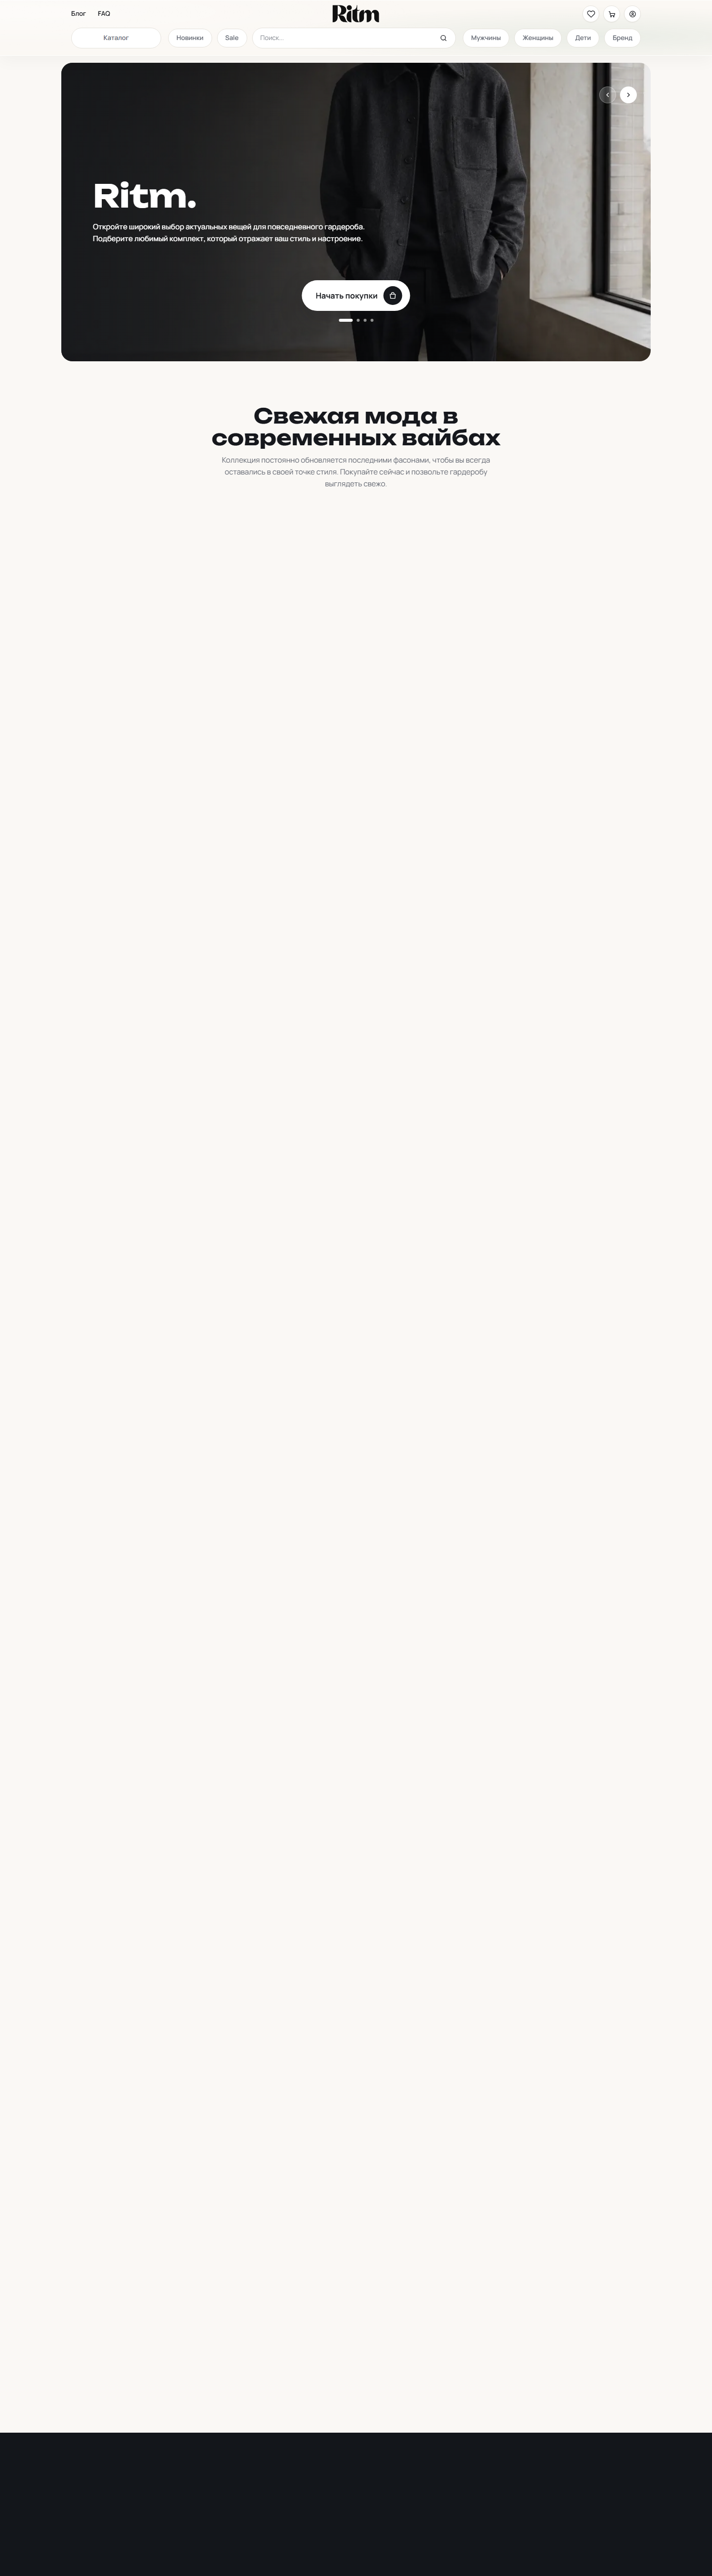
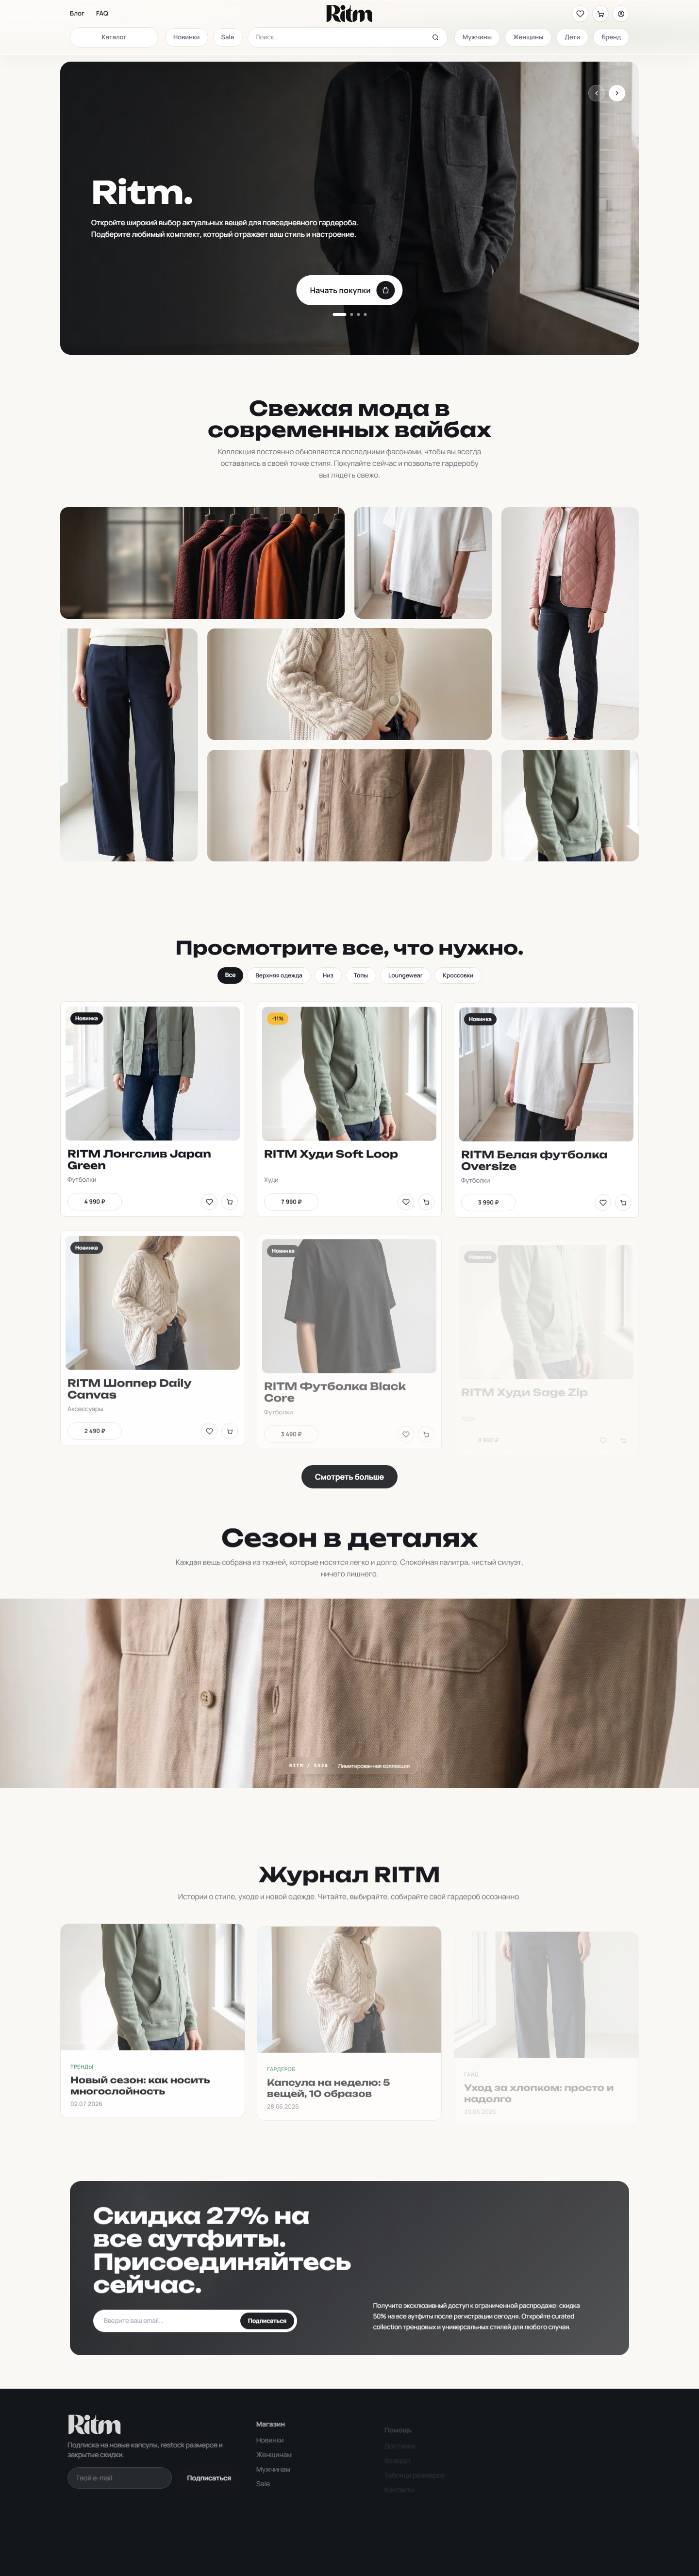
docs(portfolio): publish project case

diff --git a/tests/readme-contract.test.ts b/tests/readme-contract.test.ts
@@ -1,0 +1,29 @@
+import { readFileSync } from 'node:fs';
+import { expect, it } from 'vitest';
+
+it('documents the live case, stack, proof, and limitations', () => {
+  const readme = readFileSync('README.md', 'utf8');
+
+  for (const value of [
+    'https://ritm-app-eight.vercel.app',
+    '/demo-admin',
+    'Next.js 15',
+    'Prisma',
+    'Neon',
+    'YooKassa sandbox',
+    'Sentry',
+    'GitHub Actions',
+    'Portfolio limitations',
+  ]) {
+    expect(readme).toContain(value);
+  }
+
+  for (const image of [
+    'storefront-desktop.png',
+    'catalog-mobile.png',
+    'demo-admin-desktop.png',
+    'demo-admin-mobile.png',
+  ]) {
+    expect(readme).toContain(image);
+  }
+});

diff --git a/tests/portfolio-capture.test.ts b/tests/portfolio-capture.test.ts
@@ -18,4 +18,6 @@ it('captures the agreed public portfolio screens', () => {
 
   expect(source).toContain('if (!response?.ok)');
   expect(source).toContain('window.scrollTo');
+  expect(source).toContain("file: 'catalog-mobile.png', fullPage: false");
+  expect(source).toContain("scrollBehavior = 'auto'");
 });

diff --git a/README.md b/README.md
@@ -1,0 +1,83 @@
+# RITM - full-stack fashion commerce
+
+Production-style portfolio project: storefront, account, sandbox checkout, order lifecycle, reviews, marketing, and a separate read-only admin showcase.
+
+[Production target](https://ritm-app-eight.vercel.app) · [Demo admin path](/demo-admin) · [Source](https://github.com/ui-ux-promax/ritm-app)
+
+## Walkthrough
+
+![Storefront desktop](public/portfolio/storefront-desktop.png)
+
+![Catalog mobile](public/portfolio/catalog-mobile.png)
+
+![Demo admin desktop](public/portfolio/demo-admin-desktop.png)
+
+![Demo admin mobile](public/portfolio/demo-admin-mobile.png)
+
+## What the project demonstrates
+
+- A responsive fashion storefront with catalog, PDP, cart, wishlist, account, orders, reviews, newsletter, and delivery choices.
+- A public `/demo-admin` that exposes a synthetic, read-only operational snapshot without real admin mutations.
+- A private `/admin` that remains server-authorized through Auth.js and the ADMIN role.
+- A checkout path protected for `YooKassa sandbox` when the portfolio demo mode is enabled.
+
+## Feature matrix
+
+| Area | Included |
+| --- | --- |
+| Shopping | Storefront, catalog, product detail, cart, wishlist |
+| Customer | Auth.js, verification, profile, customer orders |
+| Commerce | Delivery calculation, coupons, YooKassa sandbox checkout |
+| Engagement | Reviews, newsletter, editorial content |
+| Operations | Private admin, catalog, orders, customers, marketing |
+| Portfolio | Public read-only `/demo-admin` with synthetic fixtures |
+
+## Tech stack
+
+- Next.js 15, React, TypeScript, Tailwind CSS
+- Prisma with Neon Postgres
+- Auth.js for identity and role boundaries
+- YooKassa sandbox for portfolio payment flows
+- Upstash for rate limits, Sentry for error monitoring
+- GitHub Actions for the quality gate; Vercel for deployment
+
+## Architecture
+
+See [the portfolio production demo architecture](docs/architecture/portfolio-production-demo.md).
+
+## Security and reliability
+
+- Security headers and verification steps: [security verification](docs/operations/security-verification.md)
+- Protected daily fixture recovery: [demo data runbook](docs/operations/demo-data-runbook.md)
+- Recovery rehearsal template: [recovery rehearsal](docs/operations/recovery-rehearsal.md)
+
+## CI and verification
+
+The repository includes Prisma generation, typecheck, Vitest, build, security checks, deployment smoke coverage, and a deterministic portfolio capture command.
+
+```bash
+npm run prisma:generate
+npm run typecheck
+npm test
+npm run build
+```
+
+To capture public portfolio screens, set `PORTFOLIO_BASE_URL` to an approved deployment and run `npm run portfolio:capture`.
+
+## Local setup
+
+```bash
+npm ci
+cp .env.example .env
+npm run prisma:generate
+npm run dev
+```
+
+Use `.env.example` as the variable reference. Keep credentials out of git and use only sandbox payment credentials for `DEMO_MODE=true`.
+
+## Portfolio limitations
+
+- Payments are YooKassa sandbox flows: no real charge is intended.
+- The public demo admin contains only synthetic data and has no write actions.
+- Operational checks depend on the approved deployment environment; the project does not offer an SLA.
+- Production release claims are made only after the release checklist has current external evidence.

diff --git a/docs/operations/release-checklist.md b/docs/operations/release-checklist.md
@@ -1,0 +1,41 @@
+# Ritm Portfolio Release Checklist
+
+## Source and CI
+
+- [ ] `npm ci`, Prisma generation, typecheck, tests, and build pass in GitHub Actions.
+- [ ] `git diff --check` reports no errors and `git status --short` contains no `.env` file.
+
+## Vercel and environment
+
+- [ ] Production URL is `https://ritm-app-eight.vercel.app` and points to the reviewed commit SHA.
+- [ ] Vercel Production contains demo/sandbox Neon, YooKassa, Upstash, Sentry, Resend, Cloudinary, `DEMO_MODE=true`, and `CRON_SECRET`; no value is copied into this document.
+
+## Storefront and payment
+
+- [ ] `npm run smoke:production` passes against the production URL.
+- [ ] One YooKassa sandbox order returns to Ritm and appears in the customer profile with no real charge.
+
+## Administration boundaries
+
+- [ ] Guest and CUSTOMER requests to `/admin` are denied.
+- [ ] `/demo-admin` and its four section routes are public and contain only synthetic data.
+- [ ] Demo-admin isolation tests prove no Prisma, Auth.js, or admin mutation import.
+
+## Security and observability
+
+- [ ] CSP, HSTS, nosniff, and referrer-policy headers match `docs/operations/security-verification.md`.
+- [ ] `/api/health` returns 200 with Upstash configured.
+- [ ] Controlled Sentry event has production environment, reviewed release SHA, readable TypeScript frames, and no PII.
+- [ ] Sentry production issue alert delivers one owner notification.
+
+## Reset and recovery
+
+- [ ] Two authorized reset calls return identical invariants.
+- [ ] Vercel rollback procedure is verified against a known-good deployment.
+- [ ] Neon isolated recovery rehearsal restores canonical catalog counts and records RPO/RTO.
+
+## Portfolio presentation
+
+- [ ] README live links and four screenshots render on GitHub.
+- [ ] Desktop 1440x1000 and mobile 390x844 checks pass for storefront and demo admin.
+- [ ] Portfolio limitations state sandbox payments, synthetic demo-admin data, and no SLA.

diff --git a/docs/releases/2026-07-phase-5-verification.md b/docs/releases/2026-07-phase-5-verification.md
@@ -1,0 +1,29 @@
+# Phase 5 Verification Record
+
+Status: in progress. This record separates observed evidence from release requirements that still need an owner-controlled production check.
+
+## Confirmed local evidence
+
+- 2026-07-13: commit `600b6b6` passed Prisma generation, TypeScript typecheck, 98 Vitest files / 566 tests, production build, and `git diff --check` before push.
+- 2026-07-13: `public/products/product-white-tee.png` was reduced from 7,590,721 bytes to 1,281,668 bytes; `tests/portfolio-assets.test.ts` enforces a 1.5 MB budget.
+
+## Confirmed Preview evidence
+
+- Deployment: `https://ritm-dfdsvwtc6-s1aw3ns-projects.vercel.app`
+- Public routes checked: `/demo-admin`, `/demo-admin/catalog`, `/demo-admin/orders`, `/demo-admin/customers`, `/demo-admin/marketing`.
+- Demo routes rendered synthetic read-only content with no forms or enabled write buttons.
+- Portfolio capture produced desktop storefront/demo-admin and mobile catalog/demo-admin screenshots from this Preview.
+
+## Pending external evidence
+
+- Production deployment URL and reviewed commit SHA.
+- GitHub Actions run URL and result.
+- Production smoke timestamp and result.
+- YooKassa sandbox order number, status, and timestamp.
+- Sentry controlled-event correlation ID and owner alert result.
+- Two authorized reset invariants.
+- Neon recovery rehearsal result with RPO and RTO.
+
+## Known Preview limitation
+
+`/api/health` returned `503` on the checked Preview. This indicates the Preview environment does not have the required health dependencies, such as Upstash configuration. It is not accepted as production health evidence.

diff --git a/docs/architecture/portfolio-production-demo.md b/docs/architecture/portfolio-production-demo.md
@@ -1,0 +1,18 @@
+# Portfolio Production Demo Architecture
+
+The storefront and demo admin are separate public experiences. The demo admin reads only static synthetic fixtures and has no Prisma, Auth.js, or mutation path. The real owner admin remains server-authorized and is not linked from demo-admin controls.
+
+```mermaid
+flowchart LR
+  Visitor --> Storefront["Next.js storefront"]
+  Reviewer --> DemoAdmin["/demo-admin · synthetic read-only snapshot"]
+  Owner --> RealAdmin["/admin · Auth.js ADMIN"]
+  Storefront --> Neon["Neon demo database"]
+  Storefront --> YooKassa["YooKassa sandbox"]
+  Storefront --> Upstash["Upstash rate limits"]
+  Storefront --> Sentry["Sentry errors"]
+  Cron["Vercel Cron"] --> Reset["Idempotent demo reset"]
+  Reset --> Neon
+```
+
+The public demo admin is a presentation surface, not a proxy to Neon or the private admin. Its pages deliberately exclude live imports and all write actions. Demo reset protects canonical fixture state independently of the presentation layer.